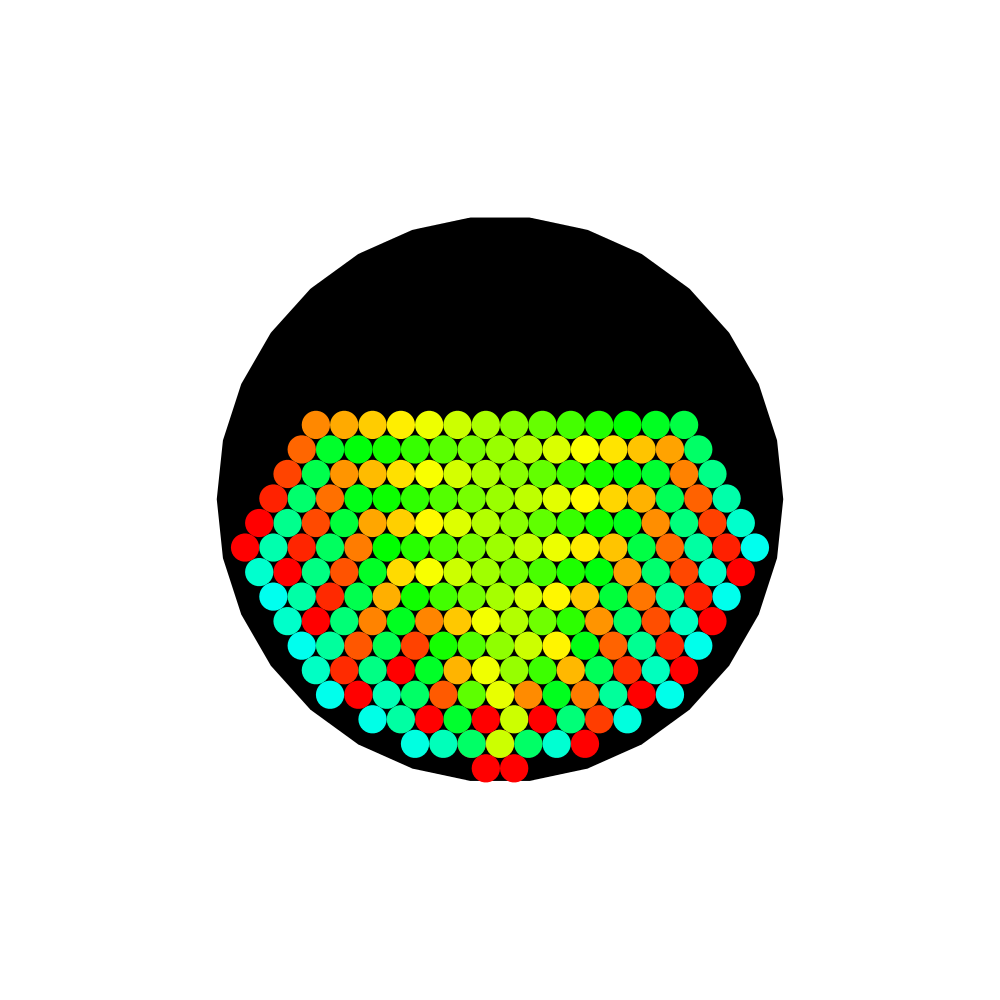
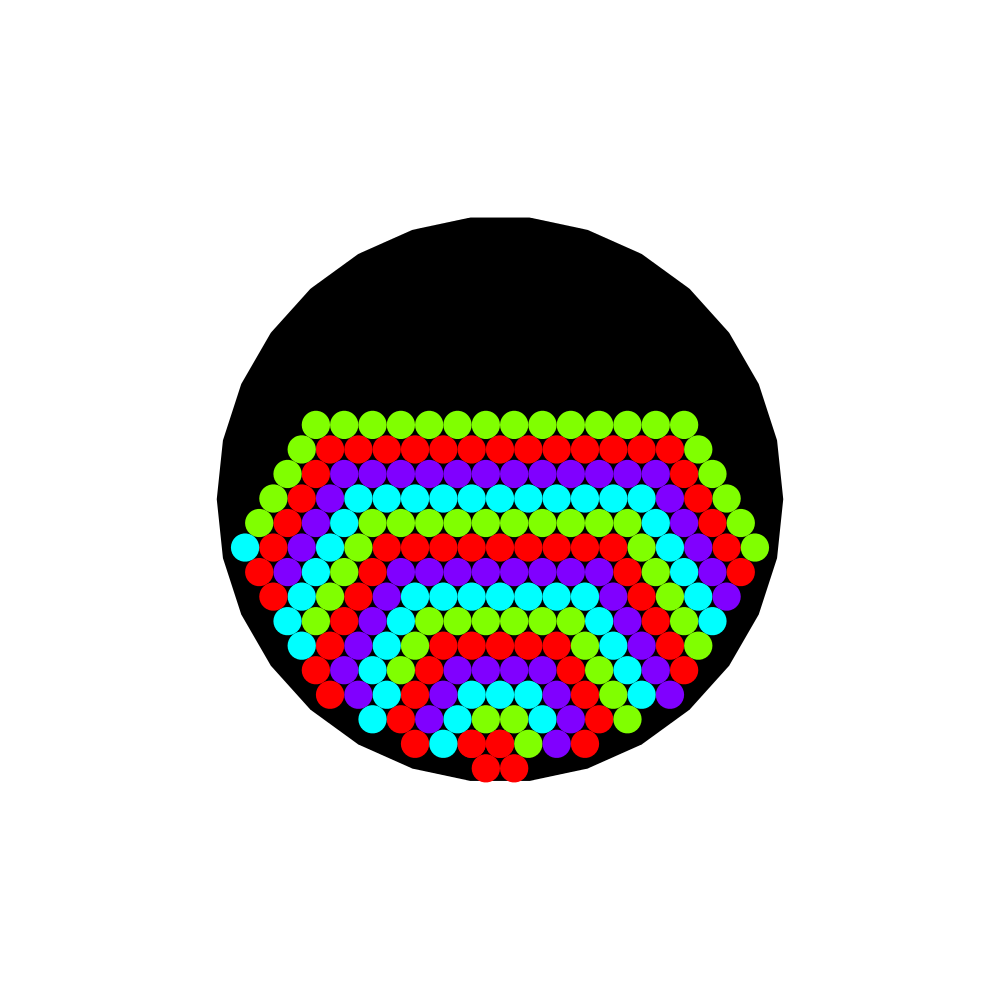
Upgrade example to debug baolayer

Changed region(s): [[0.217, 0.403, 0.775, 0.775]]

diff --git a/examples/main_circlepackingbaolayer.py b/examples/main_circlepackingbaolayer.py
@@ -3,20 +3,26 @@ from PVGPACK                import *
 
 canvas = Canvas()
 
+rnlayer = Roller([i for i in range(20)])
 def fdrawlayer(nodes):
     puts("nnodes",len(nodes))
-    hues = R(0.0,1.0).samples(2*len(nodes))
+    hues = [float(rnlayer.next() % 4)/4.0] * len(nodes)
     for (node,hue) in zip(nodes,hues):
         canvas.draw(node,Color.hue2color(hue))
+
+def fdraw(node,index,style):
+    canvas.draw(node,style)
 
 poly = Circle().scale(100.0).polygon(30).close()
 canvas.draw(poly,Color.black())
 boundaries = poly.segments()
 inodes     = BaoNode.fromcircle(Circle(Point(0.0,95.0),10.0))
 baopattern = BaoPatternLayer().fdrawlayer(fdrawlayer).radiuspattern(R(5.0,5.0).samples(20))
+# baopattern = BaoPattern().fdraw(fdraw).radiuspattern(R(5.0,5.0).samples(20)).colorpattern([Color.hue2color(float(index)/20.0) for index in range(20)])
 
 # canvas.draw(inodes)
 
+# packing = CirclePackingBao.iter(boundaries,inodes,baopattern,200,-1.0)
 packing = CirclePackingBaoLayer.iter(boundaries,inodes,baopattern,500,-1.0)
 
 canvas.save("circlepackingbaolayer.png")
